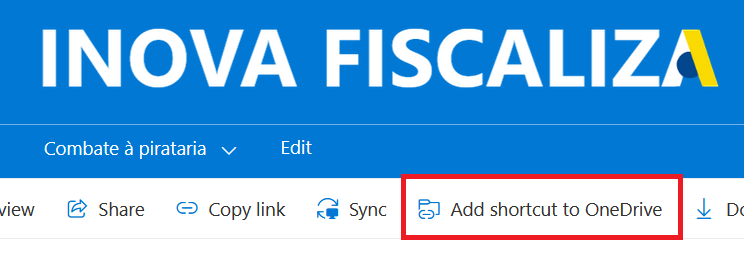
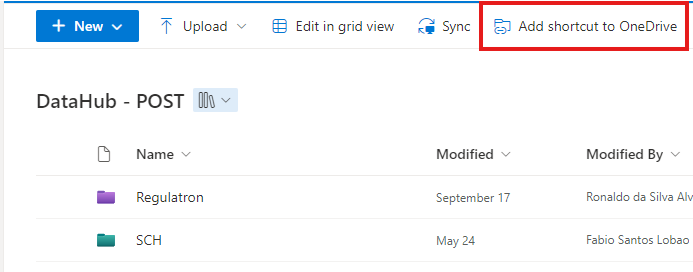
🔧 refactor: Update PDF printing settings and improve OneDrive sync instructions in the UI for clarity and precision

diff --git a/ui.py b/ui.py
@@ -143,9 +143,9 @@ def show_results(state):
     with columns[0]:
         with st.popover("📜Dados do Anúncio"):
             st.markdown("""
-                        * Os registros que compõem a primeira tabela serão salvos em um arquivo Excel e sincronizados com o [OneDrive DataHub - POST/Regulatron](https://anatel365.sharepoint.com/sites/InovaFiscaliza/DataHub%20%20POST/Regulatron).
-                        * Todos os dados submetidos são periodicamente mesclados numa base única, que será disponibilizada em [OneDrive DataHub - GET/Regulatron](https://anatel365.sharepoint.com/sites/InovaFiscaliza/DataHub%20%20GET/Regulatron).
-                        * :red[Todos os dados brutos do anúncio serão salvos, as colunas acima são apenas um recorte.]
+                        * Os registros são exportados em um arquivo Excel e sincronizados com o [OneDrive DataHub - POST/Regulatron](https://anatel365.sharepoint.com/sites/InovaFiscaliza/DataHub%20%20POST/Regulatron).
+                        * Todos os dados enviados são periodicamente mesclados numa base única, que será disponibilizada em [OneDrive DataHub - GET/Regulatron](https://anatel365.sharepoint.com/sites/InovaFiscaliza/DataHub%20%20GET/Regulatron).
+                        * :red[Todos os dados brutos do anúncio são salvos, as colunas mostradas são apenas um recorte.]
                         """)
     with columns[1]:
         with st.popover("🗃Dados de Certificação - SCH"):
@@ -253,11 +253,11 @@ def is_folders_ok(state):
 
     if state.cloud is None or not Path(state.cloud).is_dir():
         st.error(
-            "Insira o caminho para a pasta sincronizada do OneDrive: DataHub - POST/Regulatron !",
+            "Insira o caminho para a pasta sincronizada do OneDrive: DataHub - POST!",
             icon="🚨",
         )
         st.markdown("""
-                    * Para sincronizar, abra o link [OneDrive DataHub - POST/Regulatron](https://anatel365.sharepoint.com/sites/InovaFiscaliza/DataHub%20%20POST/Regulatron)
+                    * Para sincronizar, abra o link [OneDrive DataHub - POST](https://anatel365.sharepoint.com/sites/InovaFiscaliza/DataHub%20%20POST)
                     * Clique em __Add shortcut to OneDrive | Adicionar atalho para OneDrive__
                     """)
         st.image("images/onedrive.png", width=720)

diff --git a/espatula/base.py b/espatula/base.py
@@ -170,9 +170,13 @@ class BaseScraper:
         url = f"{driver.command_executor._url}/session/{driver.session_id}/chromium/send_command_and_get_result"
         params = {
             "displayHeaderFooter": True,
-            "printBackground": True,
+            "printBackground": False,
             "preferCSSPageSize": False,
-            "scale": 0.8,
+            "scale": 1.0,
+            "paperWidth": 8.27,  # A4 width in inches
+            "paperHeight": 11.69,  # A4 height in inches
+            "marginLeft": 0,
+            "marginRight": 0,
         }
 
         body = json.dumps({"cmd": "Page.printToPDF", "params": params})
